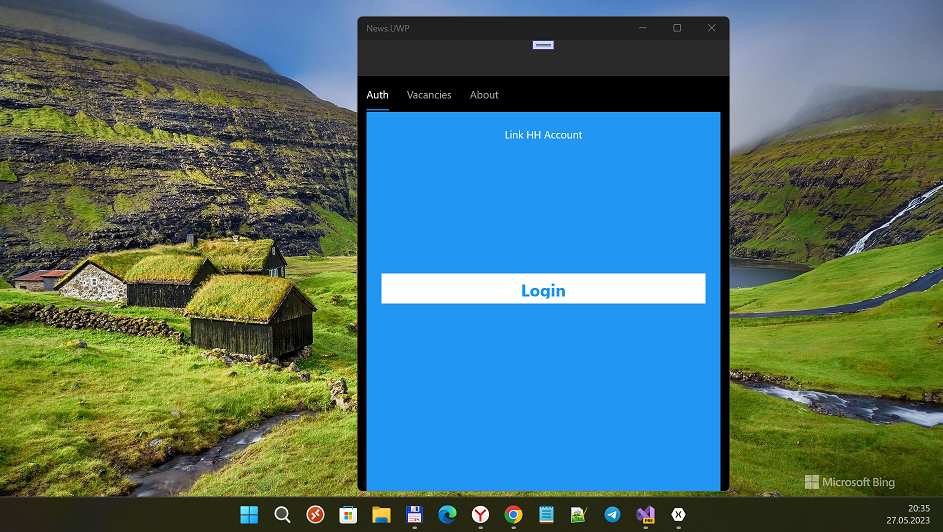
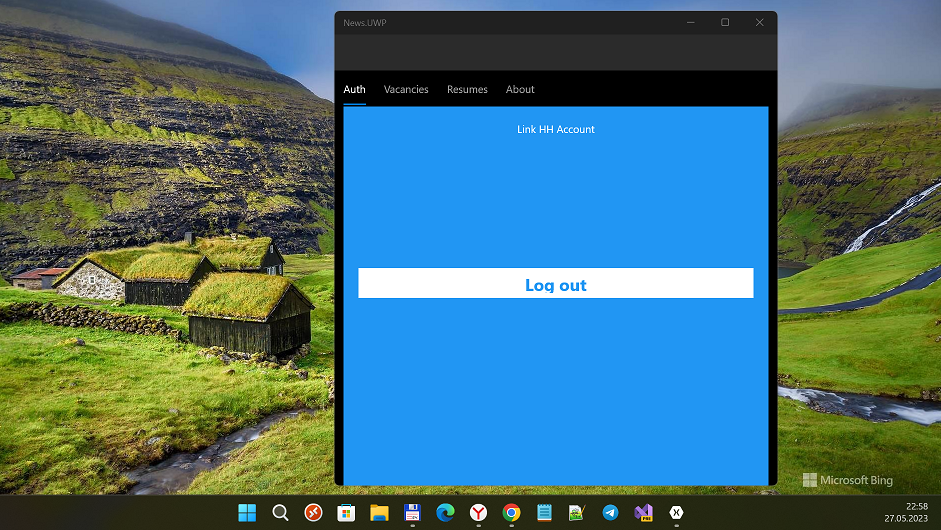
resumes page and set-get accesstoken realized

diff --git a/HHExplorer/HHExplorer/Views/ResumesPage.xaml b/HHExplorer/HHExplorer/Views/ResumesPage.xaml
@@ -2,7 +2,7 @@
 <ContentPage
     xmlns="http://xamarin.com/schemas/2014/forms"
     xmlns:x="http://schemas.microsoft.com/winfx/2009/xaml"
-    x:Class="HHWebAuthenticator.Views.UserDetailsPage"
+    x:Class="News.Views.ResumesPage"
     xmlns:ios="clr-namespace:Xamarin.Forms.PlatformConfiguration.iOSSpecific;assembly=Xamarin.Forms.Core"
     BackgroundColor="#2196F3"
     ios:Page.UseSafeArea="true" >
@@ -15,21 +15,13 @@
                    TextColor="White"/>
           </Frame>
 
-        <Button x:Name="Btn1" 
+          <Button x:Name="Btn1" 
                             Text="Refresh all your resumes" 
                             Clicked="ResumeUpdateButtonClick"/>
 
-            <Entry x:Name="TBox1" Text="" 
-                           HorizontalTextAlignment="Center" 
-                           Height="300"
-                           />
-        
-            <Button HeightRequest="40" Margin="20,150,20,0"
-                BackgroundColor="White" TextColor="#2196F3" FontSize="Medium" 
-                FontAttributes="Bold"
-                Text="Log Out"
-                HorizontalOptions="FillAndExpand" VerticalOptions="End" 
-                Clicked="Logout_Button_Clicked" ></Button>    
+          <Entry x:Name="TBox1" Text="" 
+             HorizontalTextAlignment="Center" 
+           />
     
         </StackLayout>
             

diff --git a/HHExplorer/HHExplorer/Views/MainPage.xaml b/HHExplorer/HHExplorer/Views/MainPage.xaml
@@ -6,9 +6,9 @@
   <!--Pages can be added as references or inline-->
     <TabbedPage.Children>
         <views:AuthPage Title="Auth"> </views:AuthPage>
-            <views:NewsPage Title="Vacancies"></views:NewsPage>
-        <!--views:NewsPage Title="Entertainment"></views:NewsPage>
-        <views:NewsPage Title="General"></views:NewsPage>
+        <views:VacanciesPage Title="Vacancies"></views:VacanciesPage>
+        <views:ResumesPage Title="Resumes"></views:ResumesPage>
+        <!--views:NewsPage Title="General"></views:NewsPage>
         <views:NewsPage Title="Health"></views:NewsPage>
         <views:NewsPage Title="Science"></views:NewsPage>
         <views:NewsPage Title="Sports"></views:NewsPage>

diff --git a/HHExplorer/HHExplorer/Views/AuthPage.xaml b/HHExplorer/HHExplorer/Views/AuthPage.xaml
@@ -11,7 +11,9 @@
             <Label Text="Link HH Account" HorizontalTextAlignment="Center" 
                    TextColor="White"/>
         </Frame>
-        <Button HeightRequest="40" Margin="20,150,20,0"
+        <Button x:Name="LoginBtn"
+                HeightRequest="40" 
+                Margin="20,150,20,0"
                 BackgroundColor="White" TextColor="#2196F3" 
                 FontSize="Medium" FontAttributes="Bold"
                 Text="Login"

diff --git a/HHExplorer/HHExplorer/Views/VacanciesPage.xaml b/HHExplorer/HHExplorer/Views/VacanciesPage.xaml
@@ -7,7 +7,7 @@
     xmlns:system = "clr-namespace:System;assembly=netstandard"
     Title="Safe Area"
     ios:Page.UseSafeArea="true"
-    x:Class = "News.Views.NewsPage">
+    x:Class = "News.Views.VacanciesPage">
     <StackLayout>
         <!--Button Text="Refresh" Clicked="Button_OnClicked"></Button-->
 

diff --git a/HHExplorer/HHExplorer/Views/AuthPage.xaml.cs b/HHExplorer/HHExplorer/Views/AuthPage.xaml.cs
@@ -4,8 +4,8 @@ using System.Threading.Tasks;
 using HHLibrary.Models;
 using HHWebAuthenticator;
 using HHWebAuthenticator.HH;
-using HHWebAuthenticator.Views;
 using Xamarin.Forms;
+using Xamarin.Essentials;
 
 namespace News.Views
 {
@@ -14,22 +14,52 @@ namespace News.Views
         public AuthPage()
         {
             InitializeComponent();
-            this.Title = "Login";
+            if (!App.UserLogined)
+            {
+                LoginBtn.Text = "Login";
+            }
+            else
+            {
+                LoginBtn.Text = "Log out";
+            }
         }
 
         public async Task Login_Button_Clicked(Object sender, EventArgs e)
         {
-            Debug.WriteLine("[i] Checkpoint 1");
-            await StartHHAuthenticationAsync();
-
-            Debug.WriteLine("[i] Checkpoint 2");
-            //RnD
-            if (App.UserLogined)
+            if (!App.UserLogined)
             {
-                this.Title = "AT=" + App.AccessToken;
-                Debug.WriteLine("[i] User logined!");
-                //await this.Navigation.PushAsync(new UserDetailsPage(),true);
-                await this.Navigation.PushAsync(new UserDetailsPage(),true);
+                Debug.WriteLine("[i] Checkpoint 1");
+
+                await StartHHAuthenticationAsync();
+
+                Debug.WriteLine("[i] Checkpoint 2");
+
+                if (App.UserLogined)
+                {
+                    //this.Title = "AT=" + App.AccessToken;
+                    Debug.WriteLine("[i] User logined!");
+                    LoginBtn.Text = "Log out";
+
+                    //await this.Navigation.PushAsync(new UserDetailsPage(),true);
+
+                    //store "accesstoken" settings
+                    Preferences.Set("accesstoken", App.AccessToken);
+                }
+            }
+            else
+            {
+                //Always logined. Log out...
+                try
+                {
+                    Preferences.Remove("accesstoken");
+                }
+                catch (Exception ex)
+                {
+                    Debug.WriteLine("[ex] Remove accesstoken problem: "
+                      + ex.Message);
+                }
+
+                LoginBtn.Text = "Login";
             }
             return;
         }
@@ -66,13 +96,7 @@ namespace News.Views
             }
             else
             {
-                Debug.WriteLine("[i] Login (scheme A) failed , try plan B");
-
-                //_tokenResponse.access_token 
[1 lines of base64/hex data omitted]
-                //_tokenResponse.expires_in = 10000;
-                //_tokenResponse.refresh_token = "";
-                //this.Navigation.PushAsync(new UserDetailsPage());
+                Debug.WriteLine("[e] Error fetching token!!");
             }
 
             // RnD: await 

diff --git a/HHExplorer/HHExplorer/Views/ResumesPage.xaml.cs b/HHExplorer/HHExplorer/Views/ResumesPage.xaml.cs
@@ -8,34 +8,29 @@ using Newtonsoft.Json;
 using Xamarin.Forms;
 using HHLibrary.Models;
 
-namespace HHWebAuthenticator.Views
+namespace News.Views
 {
-    public partial class UserDetailsPage : ContentPage
+    public partial class ResumesPage : ContentPage
     {
         //Models.HHResponseModel HHAccessToken;
 
-        public UserDetailsPage()
+        public ResumesPage()
         {
             this.InitializeComponent();
 
-            this.Title = "User Details";
-            
+            this.Title = "Resume group tasks";
+
             //HHAccessToken = HHConfiguration.TokenResponse;
-            Debug.WriteLine("HH Access token: " + HHConfiguration.TokenResponse);
-            TBox1.Text = "HH Access token: " + HHConfiguration.TokenResponse;
+            Debug.WriteLine("HH Access token: " + App.AccessToken); //HHConfiguration.TokenResponse.access_token);
+            TBox1.Text = "HH Access token: " + App.AccessToken; //HHConfiguration.TokenResponse.access_token;
 
             //FetchUserActivity();
             //FetchUserProfile();
             TBox1.Text = TBox1.Text + " " 
-                + $"Welcome! Press the Resume refresh button to refresh all resume.";
+                + $"Press the RESUME REFRESH button to refresh all your resumes";
 
         }
 
-        void Logout_Button_Clicked(Object sender, EventArgs e)
-        {
-            //TODO: Pending to implement this
-            // Basically what you will need to revoke tokens
-        }
 
         void FetchUserProfile()
         {
@@ -69,7 +64,7 @@ namespace HHWebAuthenticator.Views
                 client.BaseAddress = new Uri("https://api.hh.ru");
                 client.DefaultRequestHeaders.Authorization =
                     new AuthenticationHeaderValue("Bearer",
-                    HHConfiguration.TokenResponse.access_token);
+                    App.AccessToken/*HHConfiguration.TokenResponse.access_token*/);
                 client.DefaultRequestHeaders.UserAgent.ParseAdd
                 (
                     $"HHExplorer/1 (me@nm.ru)"
@@ -113,7 +108,7 @@ namespace HHWebAuthenticator.Views
         }//ResumeUpdateButtonClick end
 
 
-
+        // 1 resume date-time update
         async void ResumeRefreshAsync(string ResumeId)
         {
             // - A -
@@ -122,7 +117,7 @@ namespace HHWebAuthenticator.Views
                 client.BaseAddress = new Uri("https://api.hh.ru");
                 client.DefaultRequestHeaders.Authorization =
                     new AuthenticationHeaderValue("Bearer",
-                    HHConfiguration.TokenResponse.access_token);
+                    App.AccessToken/*HHConfiguration.TokenResponse.access_token*/);
                 client.DefaultRequestHeaders.UserAgent.ParseAdd
                 (
                     $"HHExplorer/1 (me@nm.ru)"

diff --git a/HHExplorer/HHExplorer/Api/HHConfiguration.cs b/HHExplorer/HHExplorer/Api/HHConfiguration.cs
@@ -6,25 +6,21 @@ namespace HHWebAuthenticator.HH
     public class HHConfiguration
     {
         // Credentials
-        public const string ClientId        = "";  //client_id
-        public const string ClientSecret    = "";  //client_secret
-
+        public const string ClientId        
+          = ""; //client_id
+        public const string ClientSecret    
+          = ""; //client_secret
 
         // Callback
-        public const string Callback = 
-            //                "https://" +
-            //"app-settings.hhdevelopercontent.com/simple-redirect.html";
-                                         "com.vipxam.webauthenticator-12345://callback";
-        public const string CallbackEscaped =
-         //           "app-settings.hhdevelopercontent.com%3Fsimple-redirect.html";
-        //"https%3A%2F%2Fapp-settings.hhdevelopercontent.com%3Fsimple-redirect.html";
-        "com.vipxam.webauthenticator-12345%3A%2F%2Fcallback";
+        public const string Callback
+           = "com.vipxam.webauthenticator-12345://callback";
+        public const string CallbackEscaped
+           = "com.vipxam.webauthenticator-12345%3A%2F%2Fcallback";
 
-        public const string CallbackScheme = 
-                            //"app-settings.hhdevelopercontent.com";
-                                "com.vipxam.webauthenticator-12345";
+        public const string CallbackScheme 
+           = "com.vipxam.webauthenticator-12345";
 
-        public const string Auth2Url = "https://hh.ru/oauth/authorize?";//"https://www.hh.com/oauth2/authorize?";
+        public const string Auth2Url = "https://hh.ru/oauth/authorize?";
 
         public const string ScopesEscaped = "readwrite%20profile";
         public const string ExpireIn = "604800";

diff --git a/HHExplorer/HHExplorer/Views/VacanciesPage.xaml.cs b/HHExplorer/HHExplorer/Views/VacanciesPage.xaml.cs
@@ -17,7 +17,7 @@ namespace News.Views
 {
     [XamlCompilation(XamlCompilationOptions.Compile)]
 
-    public partial class NewsPage : ContentPage
+    public partial class VacanciesPage : ContentPage
     {
         HHRestService _restService;
 
@@ -31,7 +31,7 @@ namespace News.Views
             void RunUri(string s_uri);
         }
 
-        public NewsPage()
+        public VacanciesPage()
         {
             InitializeComponent();
 
@@ -114,11 +114,11 @@ namespace News.Views
     }//class end
 
     /*
-    public partial class NewsPage : ContentPage
+    public partial class VacanciesPage : ContentPage
     {
-        private readonly NewsService _newsService;
-        private NewsCategory _category;
-        public NewsPage()
+        private readonly VacanciesService _vacanciesService;
+        private VacanciesCategory _category;
+        public VacanciesPage()
         {
             InitializeComponent();
             _newsService = new();

diff --git a/HHExplorer/HHExplorer/App.xaml.cs b/HHExplorer/HHExplorer/App.xaml.cs
@@ -1,6 +1,7 @@
 using System;
 using Xamarin.Forms;
 using Xamarin.Forms.Xaml;
+using Xamarin.Essentials;
 
 namespace News
 {
@@ -12,6 +13,14 @@ namespace News
 
         public App()
         {
+            // try to get (restore) "accesstoken" settings
+            string accesstoken = Preferences.Get("accesstoken", "");
+            if (accesstoken != "")
+            {
+                AccessToken = accesstoken;
+                UserLogined = true;
+            }
+
             InitializeComponent();
 
             MainPage = new NavigationPage(new Views.MainPage());

diff --git a/README.md b/README.md
@@ -13,7 +13,8 @@ RU only. Только для России.
 ## Current Status
 - Damaged / transformed to "HH concept" (idea only; horizontal menu added). Функционал разрушен, счас это всё лишь "концепт" нового HH...
 - Min. Win. os. build = 15063 (No Astoria compatibility). Минимальная версия сборки Windows изменена на 15063 (совместимость с Astoria нарушена) 
-- Auth (Login) page added. No settings store at now.
+- Auth (Login) page added. The access token stored when the user logined (and acc. token removed when the user "log-outed").
+- Resumes page added. Just Click Resume refresh to refresh date-time "marker" for all your resumes :)
 - Android/iOS targets are only "dummies" (stubs) at now.
 
 ## How to get your HH credentials?
@@ -23,6 +24,7 @@ RU only. Только для России.
 ## TODO
 - Add Map. Добавить Карту.
 - Add Geo-location. Реализовать некую геолокацию (привязку вакансий к опр. станции метро и т.п.).
+- Add normal LixBox/TextBlock for Resumes page and etc.
 
 ## .
 
